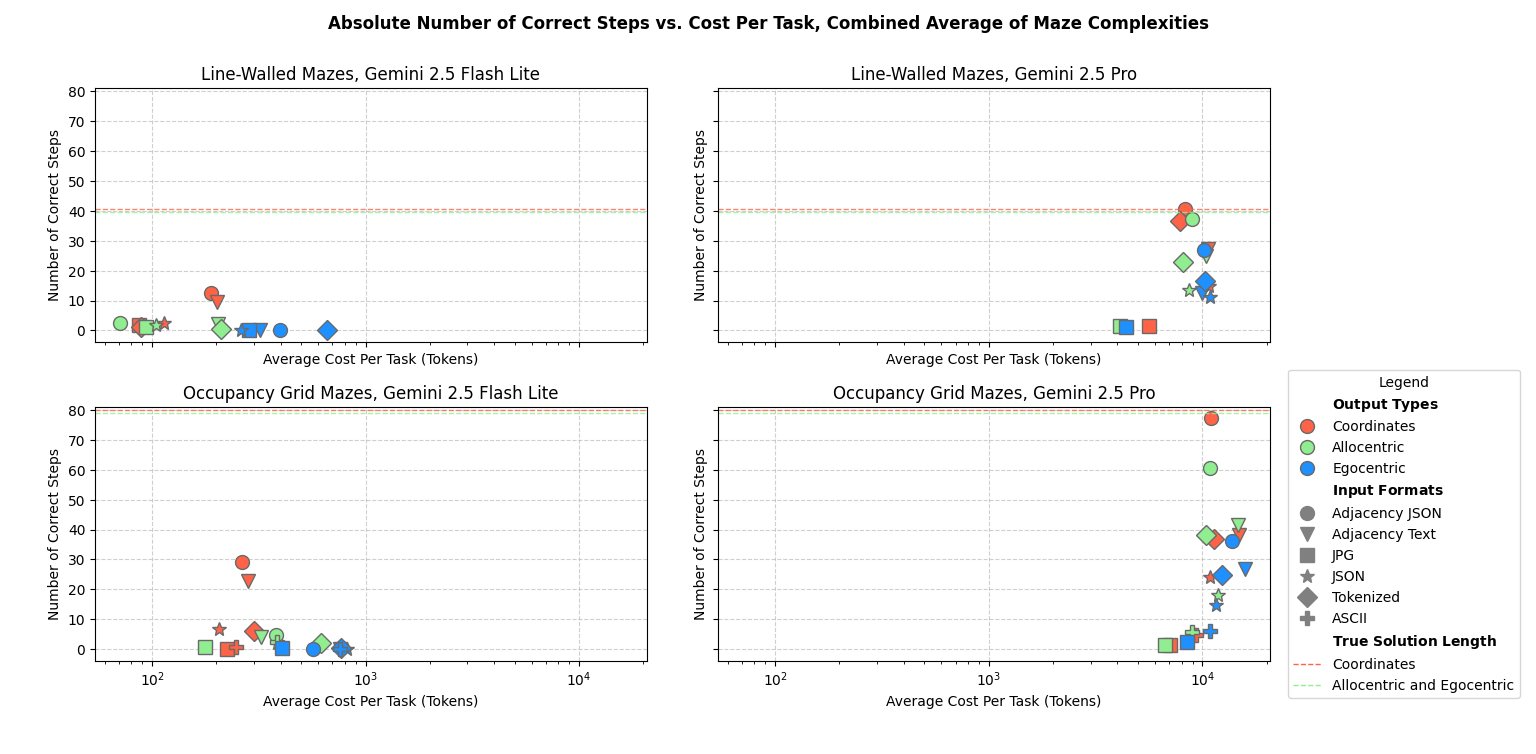
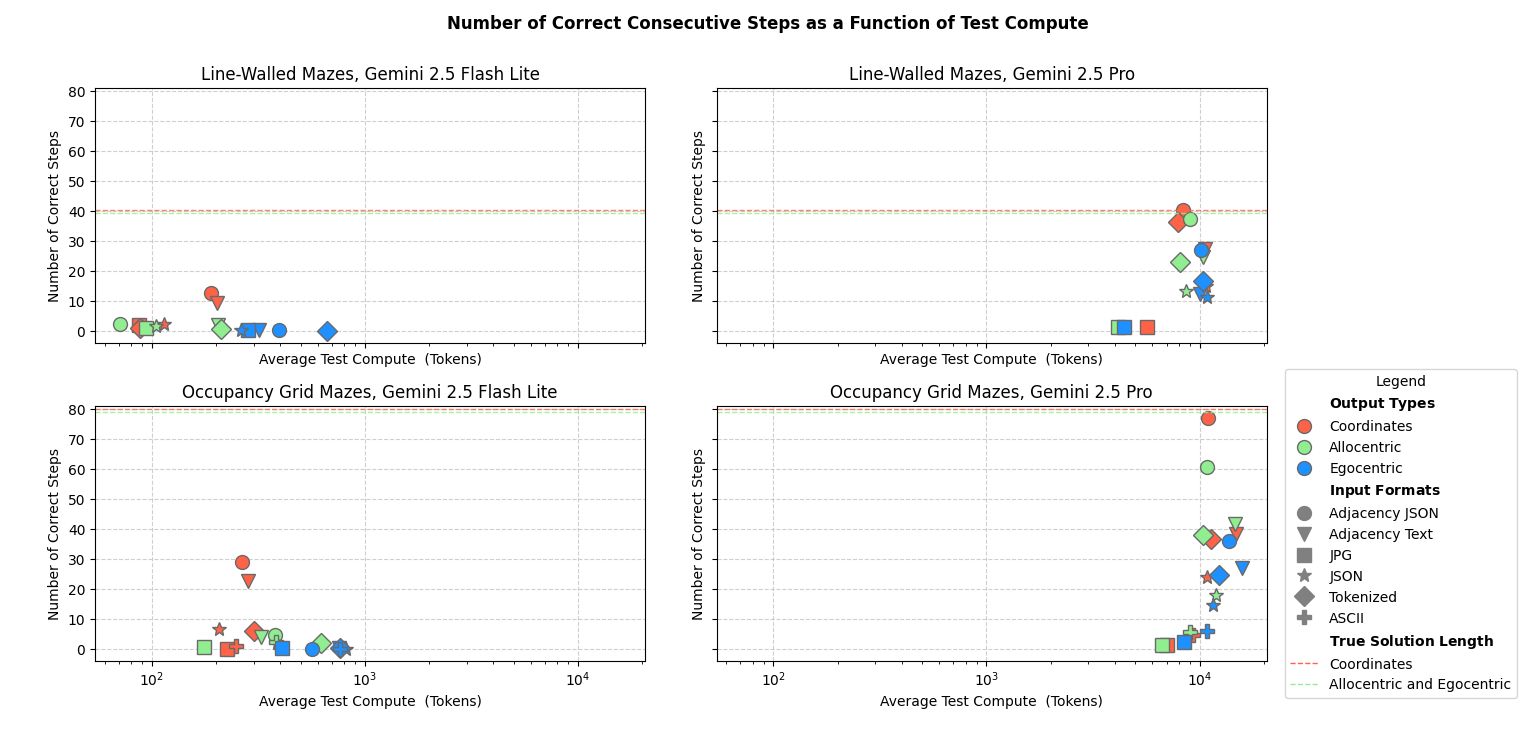
charts updates

diff --git a/raw_score_tokens_Dataset03.py b/raw_score_tokens_Dataset03.py
@@ -1131,9 +1131,9 @@ ax2.set_xscale('log')
 ax1.grid(True, linestyle='--', alpha=0.6)
 ax2.grid(True, linestyle='--', alpha=0.6)
 ax1.set_ylabel("Number of Correct Steps")
-ax1.set_xlabel("Average Cost Per Task (Tokens)")
+ax1.set_xlabel("Average Test Compute (Tokens)")
 ax2.set_ylabel("Number of Correct Steps")
-ax2.set_xlabel("Average Cost Per Task (Tokens)")
+ax2.set_xlabel("Average Test Compute (Tokens)")
 
 
 
@@ -1220,7 +1220,7 @@ ax1.set_title("Gemini 2.5 Flash Lite")
 ax2.set_title("Gemini 2.5 Pro")
 
 
-plt.suptitle("Absolute Number of Correct Steps vs. Cost Per Task, Combined Average of Maze Complexities", fontweight= 'bold')
+plt.suptitle("Number of Correct Consecutive Steps as a Function of Test Compute", fontweight= 'bold')
 
 plt.tight_layout(rect=[0, 0, 0.97, 1])  # leave 15% of width for legend
 
@@ -1341,7 +1341,7 @@ for i in range(0,2):
         axes[i,j].set_xscale('log')  # Set x-axis to logarithmic scale
         axes[i,j].grid(True, linestyle='--', alpha=0.6)
         axes[i,j].set_ylabel("Number of Correct Steps")
-        axes[i,j].set_xlabel("Average Cost Per Task (Tokens)")
+        axes[i,j].set_xlabel("Average Test Compute  (Tokens)")
 
 
 
@@ -1442,7 +1442,7 @@ axes[1,0].set_title("Occupancy Grid Mazes, Gemini 2.5 Flash Lite")
 axes[1,1].set_title("Occupancy Grid Mazes, Gemini 2.5 Pro")
 
 
-plt.suptitle("Absolute Number of Correct Steps vs. Cost Per Task, Combined Average of Maze Complexities", fontweight= 'bold')
+plt.suptitle("Number of Correct Consecutive Steps as a Function of Test Compute", fontweight= 'bold')
 
 plt.tight_layout(rect=[0, 0, 0.97, 1])  # leave 15% of width for legend
 

diff --git a/charts_Dataset03.py b/charts_Dataset03.py
@@ -259,13 +259,13 @@ sd_occupancy_NR_allo_tokenized_txt_6 = np.std(r6.occupancy_NR_allo_tokenized_txt
 # Averages and std deviation 15x15
 avg_line_NR_allo_adj_json_15 = np.mean(r15.line_NR_allo_adj_json_15)
 avg_line_NR_allo_adj_txt_15 = np.mean(r15.line_NR_allo_adj_txt_15)
-avg_line_NR_allo_jpg_15 = np.mean(r15.line_NR_allo_jpg_15)
+avg_line_NR_allo_jpg_15 = np.nanmean(r15.line_NR_allo_jpg_15)
 avg_line_NR_allo_json_15 = np.mean(r15.line_NR_allo_json_15)
 avg_line_NR_allo_tokenized_txt_15 = np.mean(r15.line_NR_allo_tokenized_txt_15)
 avg_occupancy_NR_allo_adj_json_15 = np.mean(r15.occupancy_NR_allo_adj_json_15)
 avg_occupancy_NR_allo_adj_txt_15 = np.mean(r15.occupancy_NR_allo_adj_txt_15)
 avg_occupancy_NR_allo_ascii_txt_15 = np.mean(r15.occupancy_NR_allo_ascii_txt_15)  
-avg_occupancy_NR_allo_jpg_15 = np.mean(r15.occupancy_NR_allo_jpg_15)
+avg_occupancy_NR_allo_jpg_15 = np.nanmean(r15.occupancy_NR_allo_jpg_15)
 avg_occupancy_NR_allo_json_15 = np.mean(r15.occupancy_NR_allo_json_15)
 avg_occupancy_NR_allo_tokenized_txt_15 = np.mean(r15.occupancy_NR_allo_tokenized_txt_15)
 sd_line_NR_allo_adj_json_15 = np.std(r15.line_NR_allo_adj_json_15)

diff --git a/acc_token_output_Dataset03.py b/acc_token_output_Dataset03.py
@@ -1347,7 +1347,7 @@ for i in range(0,3):
         axes[i,j].set_xscale('log')  # Set x-axis to logarithmic scale
         axes[i,j].grid(True, linestyle='--', alpha=0.6)
         axes[i,j].set_ylabel("Accuracy (%)")
-        axes[i,j].set_xlabel("Average Cost Per Task (Tokens)")
+        axes[i,j].set_xlabel("Test Compute (Tokens)")
 
 
 
@@ -1437,7 +1437,7 @@ axes[1,1].set_title("6x6 and 13x13, Gemini 2.5 Pro")
 axes[2,0].set_title("15x15 and 31x31, Gemini 2.5 Flash Lite")
 axes[2,1].set_title("15x15 and 31x31, Gemini 2.5 Pro")
 
-plt.suptitle("Performance vs. Cost Per Task", x=0.48,  fontweight= 'bold')
+plt.suptitle("Model Performance as a Function of Test Compute", x=0.48,  fontweight= 'bold')
 
 plt.tight_layout(rect=[0, 0, 0.97, 1])  # leave 15% of width for legend
 
